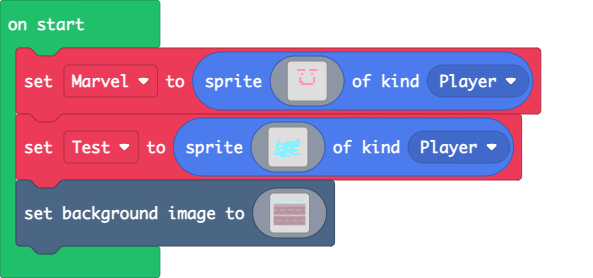
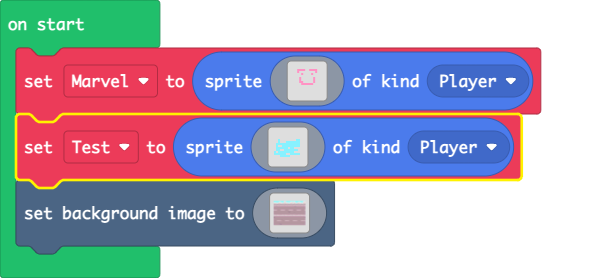
Update main.blocks, main.ts

diff --git a/main.ts b/main.ts
@@ -2,7 +2,7 @@ let Marvel = sprites.create(img`
     . . . . . . . . . . . . . . . . 
     . . . . . . . . . . . . . . . . 
     . . . 3 3 3 3 . . 3 3 3 3 . . . 
-    . . . . . . . . . . . . . . . . 
+    . . . 3 . . . . . . . . 3 . . . 
     . . . . . 3 . . . . 3 . . . . . 
     . . . . . . . . . . . . . . . . 
     . . . . 3 . . . . . . 3 . . . . 
